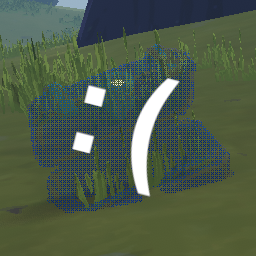
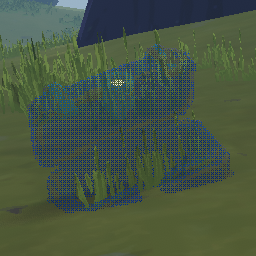
add RiskOfOptions support
also change the icon to be less sad :3

Changed region(s): [[0.5, 0.2812, 0.7188, 0.7812], [0.3125, 0.3125, 0.4375, 0.4375], [0.2812, 0.5, 0.375, 0.5938]]

diff --git a/FadeEmptyChests/FadeEmptyChests.cs b/FadeEmptyChests/FadeEmptyChests.cs
@@ -1,9 +1,10 @@
 using BepInEx;
 using BepInEx.Configuration;
-using BepInEx.Logging;
-using EntityStates;
-using MonoMod.Utils;
+using RiskOfOptions;
+using RiskOfOptions.OptionConfigs;
+using RiskOfOptions.Options;
 using RoR2;
+using System.IO;
 using UnityEngine;
 using UnityEngine.Networking;
 
@@ -11,6 +12,7 @@ namespace SSM24.FadeEmptyChests
 {
     [BepInDependency("com.bepis.r2api")]
     [BepInPlugin("com.SSM24.FadeEmptyChests", "Fade Empty Chests", "1.0.0")]
+    [BepInDependency("com.rune580.riskofoptions")]
     public class FadeEmptyChests : BaseUnityPlugin
     {
         public static ConfigEntry<float> FadeMultiplier;
@@ -65,6 +67,35 @@ namespace SSM24.FadeEmptyChests
                 default_ShouldApplyToAdaptiveChests,
                 "Whether adaptive chests should fade out after use."
             );
+
+            ModSettingsManager.AddOption(new SliderOption(FadeMultiplier, new SliderConfig { max = 1 }));
+            ModSettingsManager.AddOption(new SliderOption(BrightnessMultiplier, new SliderConfig { max = 1 }));
+            ModSettingsManager.AddOption(new SliderOption(BrightnessMultiplier, new SliderConfig { max = 5 }));
+
+            ModSettingsManager.AddOption(new CheckBoxOption(ShouldApplyToMultishops));
+            ModSettingsManager.AddOption(new CheckBoxOption(ShouldApplyToAdaptiveChests));
+
+            // create icon from file
+            // mostly taken from https://github.com/Vl4dimyr/CaptainShotgunModes/blob/fdf828e/RiskOfOptionsMod.cs#L36-L48
+            // i have NO clue what this code is doing but it seems to work so... cool?
+            try
+            {
+                using Stream stream = File.OpenRead(System.IO.Path.Combine(System.IO.Path.GetDirectoryName(Info.Location), "icon.png"));
+                Texture2D texture = new Texture2D(0, 0);
+                byte[] imgData = new byte[stream.Length];
+
+                stream.Read(imgData, 0, (int)stream.Length);
+
+                if (ImageConversion.LoadImage(texture, imgData))
+                {
+                    ModSettingsManager.SetModIcon(
+                        Sprite.Create(texture, new Rect(0, 0, texture.width, texture.height), new Vector2(0, 0))
+                    );
+                }
+            }
+            catch (FileNotFoundException)
+            {
+            }
 
             On.EntityStates.Barrel.Opened.OnEnter += On_Opened_OnEnter;
             On.RoR2.DelusionChestController.ResetChestForDelusion += On_DelusionChestController_ResetChestForDelusion;

diff --git a/FadeEmptyChests/FadeObject.cs b/FadeEmptyChests/FadeObject.cs
@@ -24,6 +24,7 @@ namespace SSM24.FadeEmptyChests
 
         private float currentFade = 1f;
         private float currentBrightness = 1f;
+        private bool lerpFinished;
 
         private void Start()
         {
@@ -100,6 +101,7 @@ namespace SSM24.FadeEmptyChests
                 currentLerp += Time.deltaTime / FadeOutTime;
                 yield return new WaitForEndOfFrame();
             }
+            lerpFinished = true;
             yield break;
         }
 
@@ -122,6 +124,13 @@ namespace SSM24.FadeEmptyChests
 
         private void OnSceneCameraPreRender(SceneCamera _)
         {
+            // continuously set so that changes to RiskOfOptions work
+            if (lerpFinished)
+            {
+                currentFade = TargetFade;
+                currentBrightness = TargetBrightness;
+            }
+
             for (int i = 0; i < renderers.Length; i++)
             {
                 Renderer renderer = renderers[i];
